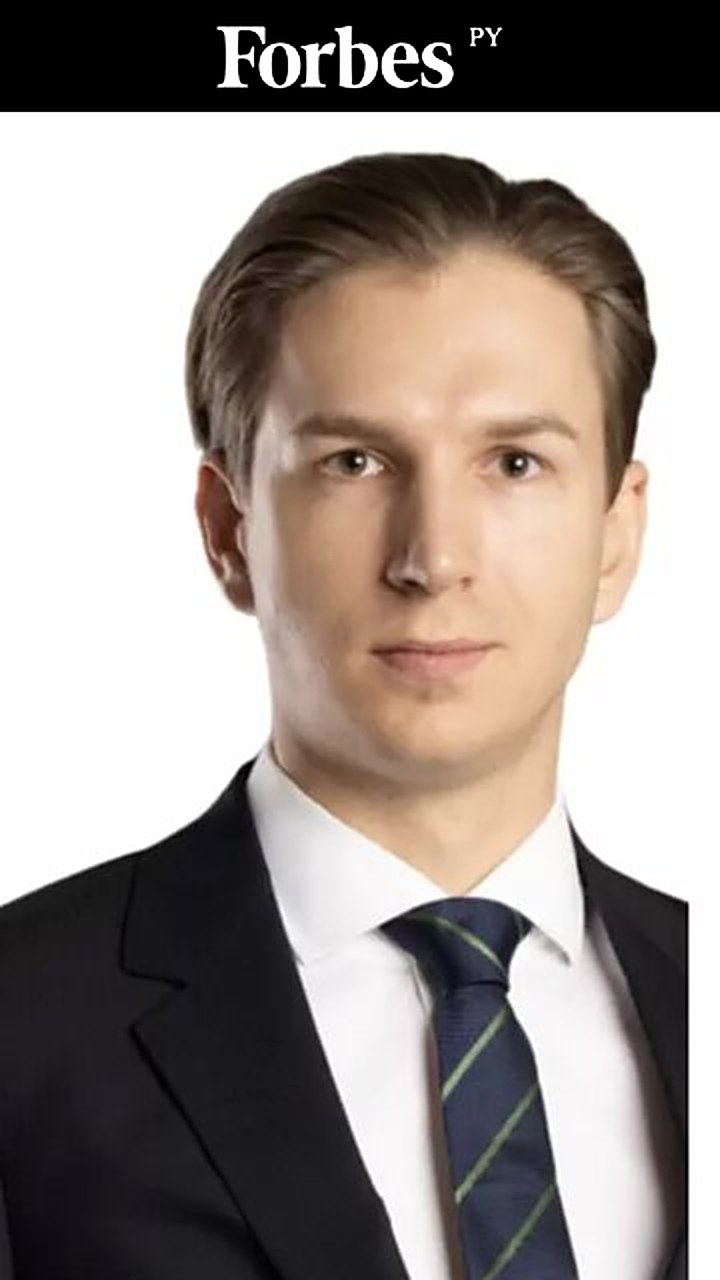
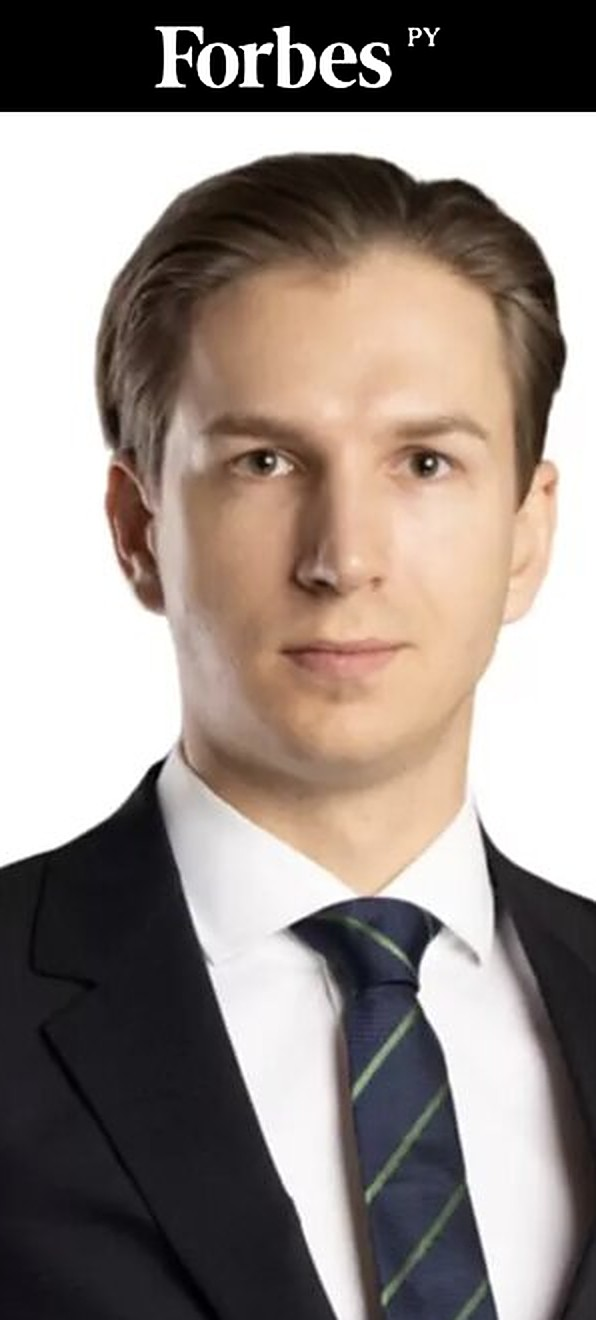
Hero from high-res original, Forbes image with tie, drop Latin and Mandarin

diff --git a/es.html b/es.html
@@ -74,7 +74,7 @@ a{color:inherit}
 .hero{padding:24px 0 56px}
 .hero-grid{display:grid;grid-template-columns:1fr;gap:32px;align-items:center}
 .hero-photo{background:#E8E6EE;border-radius:4px;overflow:hidden;aspect-ratio:4/5;max-height:64vh;max-height:64svh;width:100%;margin:0 auto}
-.hero-photo img{width:100%;height:100%;object-fit:cover;object-position:50% 30%}
+.hero-photo img{width:100%;height:100%;object-fit:cover;object-position:50% 20%}
 .hero h1{font-family:var(--sans);font-size:13px;font-weight:500;letter-spacing:.18em;text-transform:uppercase;color:var(--brass);margin:14px 0 18px}
 .lead{font-family:var(--serif);font-weight:500;font-size:34px;line-height:1.15;color:var(--navy);margin-bottom:22px}
 .lead em{font-style:italic;color:var(--teal)}
@@ -85,12 +85,12 @@ a{color:inherit}
 /* press */
 .press{background:var(--paper)}
 .sec.press{padding-bottom:28px}
-.feat{display:grid;grid-template-columns:1fr;gap:0;border:1px solid var(--line);text-decoration:none;color:inherit;margin-bottom:28px}
+.feat{display:grid;grid-template-columns:38% 1fr;gap:0;border:1px solid var(--line);text-decoration:none;color:inherit;margin-bottom:28px;align-items:stretch}
 .feat-img{background:#f1f1f1}
 .feat-img{background:#fff}
-.feat-img img{width:100%;height:100%;object-fit:cover;object-position:50% 0;aspect-ratio:4/5}
-.feat-txt{padding:28px 24px;display:flex;flex-direction:column;justify-content:center;gap:14px}
-.feat-title{font-family:var(--serif);font-size:27px;line-height:1.22;font-weight:500;color:var(--navy)}
+.feat-img img{width:100%;height:auto;display:block}
+.feat-txt{padding:20px 18px;display:flex;flex-direction:column;justify-content:center;gap:10px}
+.feat-title{font-family:var(--serif);font-size:22px;line-height:1.22;font-weight:500;color:var(--navy)}
 .note{font-size:14px;font-weight:300;color:var(--body)}
 .more-link{font-size:12px;font-weight:500;letter-spacing:.12em;text-transform:uppercase;color:var(--brass);text-decoration:none;display:inline-flex;gap:8px;align-items:center}
 .more-link::after{content:'\2192';transition:transform .2s}
@@ -162,13 +162,11 @@ footer a:hover{color:var(--navy)}
   .lead{font-size:46px}
   .sec{padding:96px 0}
   .sec-h{font-size:36px;margin-bottom:48px}
-  .feat{grid-template-columns:minmax(0,.8fr) minmax(0,1.2fr)}
-  .feat-img{max-height:480px;overflow:hidden}
-  .feat-img img{aspect-ratio:auto;height:480px;object-position:50% 0}
-  .feat-txt{padding:48px 52px}
+  .feat-img img{height:480px;width:auto}
+  .feat-txt{padding:48px 56px;gap:14px}
   .feat-title{font-size:34px}
   .duo{grid-template-columns:minmax(0,.8fr) minmax(0,1.2fr);align-items:start;gap:40px}
-  .feat{grid-template-columns:minmax(0,.7fr) minmax(0,1.3fr)}
+  .feat{grid-template-columns:auto 1fr}
   .cols{grid-template-columns:1fr 1fr;gap:56px}
   .strip{padding-top:20px}
   .sec.press{padding-bottom:44px}
@@ -191,7 +189,7 @@ footer a:hover{color:var(--navy)}
 
 <main>
 <section class="hero"><div class="wrap hero-grid">
-  <figure class="hero-photo"><img src="images/robin-hero.jpg?v=c2" alt="Robin Loths, estudiante de Medicina" width="1160" height="1450" fetchpriority="high"></figure>
+  <figure class="hero-photo"><img src="images/robin-hero.jpg?v=c3" alt="Robin Loths, estudiante de Medicina" width="1200" height="1500" fetchpriority="high"></figure>
   <div>
     <p class="kicker">Medicina &middot; Empresa</p>
     <h1>Robin Loths</h1>
@@ -205,7 +203,7 @@ footer a:hover{color:var(--navy)}
   <h2 class="sec-h">Prensa</h2>
 
   <a class="feat" href="https://www.forbes.com.py/especiales/park-lofts-marca-nuevo-hito-real-estate-local-ambicioso-proyecto-us-10-millones-n75403" target="_blank" rel="noopener">
-    <div class="feat-img"><img src="images/robin-forbes-feature.jpg?v=1" width="720" height="1280" alt="Robin Loths en Forbes Paraguay" loading="lazy"></div>
+    <div class="feat-img"><img src="images/robin-forbes-feature.jpg?v=2" width="596" height="1320" alt="Robin Loths en Forbes Paraguay" loading="lazy"></div>
     <div class="feat-txt">
       <p class="kicker">Forbes Paraguay</p>
       <p class="feat-title">Park Lofts marca nuevo hito en el real estate local</p>
@@ -261,7 +259,7 @@ footer a:hover{color:var(--navy)}
     <div><h3>Medicina</h3><ul class="cl"><li><span><span class="n">Stop the Bleed</span><span class="i">American College of Surgeons</span></span><span class="y">2026</span></li><li><span><span class="n">Tactical Emergency Casualty Care</span><span class="i">Consejo Sudamericano de Medicina T&aacute;ctica</span></span><span class="y">2026</span></li><li><span><span class="n">Introduction to the Biology of Cancer</span><span class="i">Johns Hopkins School of Medicine</span></span><span class="y">2026</span></li><li><span><span class="n">Introducci&oacute;n al quir&oacute;fano</span><span class="i">Universidad An&aacute;huac</span></span><span class="y">2026</span></li><li><span><span class="n">Anatomy of the Upper and Lower Extremities</span><span class="i">Yale University</span></span><span class="y">2026</span></li><li><span><span class="n">Outbreaks and Epidemics</span><span class="i">Johns Hopkins University</span></span><span class="y">2026</span></li><li><span><span class="n">Clinical Trials: Good Clinical Practice</span><span class="i">Novartis</span></span><span class="y">2026</span></li></ul></div>
     <div><h3>Finanzas</h3><ul class="cl"><li><span><span class="n">Diplomado en Derivados Financieros</span><span class="i">Bolsa de Valores de Asunci&oacute;n</span></span><span class="y">2025</span></li><li><span><span class="n">Diplomado en Mercado de Valores</span><span class="i">Bolsa de Valores de Asunci&oacute;n</span></span><span class="y">2023</span></li><li><span><span class="n">Financial Markets</span><span class="i">Yale University</span></span><span class="y">2020</span></li><li><span><span class="n">Bloomberg Market Concepts</span><span class="i">Bloomberg</span></span><span class="y">2020</span></li></ul></div>
   </div>
-  <p class="langs"><strong>Idiomas</strong>Alem&aacute;n, ingl&eacute;s, espa&ntilde;ol y portugu&eacute;s; nociones de lat&iacute;n y mandar&iacute;n.</p>
+  <p class="langs"><strong>Idiomas</strong>Alem&aacute;n, ingl&eacute;s, espa&ntilde;ol y portugu&eacute;s.</p>
 </div></section>
 </main>
 

diff --git a/pt.html b/pt.html
@@ -74,7 +74,7 @@ a{color:inherit}
 .hero{padding:24px 0 56px}
 .hero-grid{display:grid;grid-template-columns:1fr;gap:32px;align-items:center}
 .hero-photo{background:#E8E6EE;border-radius:4px;overflow:hidden;aspect-ratio:4/5;max-height:64vh;max-height:64svh;width:100%;margin:0 auto}
-.hero-photo img{width:100%;height:100%;object-fit:cover;object-position:50% 30%}
+.hero-photo img{width:100%;height:100%;object-fit:cover;object-position:50% 20%}
 .hero h1{font-family:var(--sans);font-size:13px;font-weight:500;letter-spacing:.18em;text-transform:uppercase;color:var(--brass);margin:14px 0 18px}
 .lead{font-family:var(--serif);font-weight:500;font-size:34px;line-height:1.15;color:var(--navy);margin-bottom:22px}
 .lead em{font-style:italic;color:var(--teal)}
@@ -85,12 +85,12 @@ a{color:inherit}
 /* press */
 .press{background:var(--paper)}
 .sec.press{padding-bottom:28px}
-.feat{display:grid;grid-template-columns:1fr;gap:0;border:1px solid var(--line);text-decoration:none;color:inherit;margin-bottom:28px}
+.feat{display:grid;grid-template-columns:38% 1fr;gap:0;border:1px solid var(--line);text-decoration:none;color:inherit;margin-bottom:28px;align-items:stretch}
 .feat-img{background:#f1f1f1}
 .feat-img{background:#fff}
-.feat-img img{width:100%;height:100%;object-fit:cover;object-position:50% 0;aspect-ratio:4/5}
-.feat-txt{padding:28px 24px;display:flex;flex-direction:column;justify-content:center;gap:14px}
-.feat-title{font-family:var(--serif);font-size:27px;line-height:1.22;font-weight:500;color:var(--navy)}
+.feat-img img{width:100%;height:auto;display:block}
+.feat-txt{padding:20px 18px;display:flex;flex-direction:column;justify-content:center;gap:10px}
+.feat-title{font-family:var(--serif);font-size:22px;line-height:1.22;font-weight:500;color:var(--navy)}
 .note{font-size:14px;font-weight:300;color:var(--body)}
 .more-link{font-size:12px;font-weight:500;letter-spacing:.12em;text-transform:uppercase;color:var(--brass);text-decoration:none;display:inline-flex;gap:8px;align-items:center}
 .more-link::after{content:'\2192';transition:transform .2s}
@@ -162,13 +162,11 @@ footer a:hover{color:var(--navy)}
   .lead{font-size:46px}
   .sec{padding:96px 0}
   .sec-h{font-size:36px;margin-bottom:48px}
-  .feat{grid-template-columns:minmax(0,.8fr) minmax(0,1.2fr)}
-  .feat-img{max-height:480px;overflow:hidden}
-  .feat-img img{aspect-ratio:auto;height:480px;object-position:50% 0}
-  .feat-txt{padding:48px 52px}
+  .feat-img img{height:480px;width:auto}
+  .feat-txt{padding:48px 56px;gap:14px}
   .feat-title{font-size:34px}
   .duo{grid-template-columns:minmax(0,.8fr) minmax(0,1.2fr);align-items:start;gap:40px}
-  .feat{grid-template-columns:minmax(0,.7fr) minmax(0,1.3fr)}
+  .feat{grid-template-columns:auto 1fr}
   .cols{grid-template-columns:1fr 1fr;gap:56px}
   .strip{padding-top:20px}
   .sec.press{padding-bottom:44px}
@@ -191,7 +189,7 @@ footer a:hover{color:var(--navy)}
 
 <main>
 <section class="hero"><div class="wrap hero-grid">
-  <figure class="hero-photo"><img src="images/robin-hero.jpg?v=c2" alt="Robin Loths, estudante de Medicina" width="1160" height="1450" fetchpriority="high"></figure>
+  <figure class="hero-photo"><img src="images/robin-hero.jpg?v=c3" alt="Robin Loths, estudante de Medicina" width="1200" height="1500" fetchpriority="high"></figure>
   <div>
     <p class="kicker">Medicina &middot; Empreendedorismo</p>
     <h1>Robin Loths</h1>
@@ -205,7 +203,7 @@ footer a:hover{color:var(--navy)}
   <h2 class="sec-h">Imprensa</h2>
 
   <a class="feat" href="https://www.forbes.com.py/especiales/park-lofts-marca-nuevo-hito-real-estate-local-ambicioso-proyecto-us-10-millones-n75403" target="_blank" rel="noopener">
-    <div class="feat-img"><img src="images/robin-forbes-feature.jpg?v=1" width="720" height="1280" alt="Robin Loths na Forbes Paraguay" loading="lazy"></div>
+    <div class="feat-img"><img src="images/robin-forbes-feature.jpg?v=2" width="596" height="1320" alt="Robin Loths na Forbes Paraguay" loading="lazy"></div>
     <div class="feat-txt">
       <p class="kicker">Forbes Paraguay</p>
       <p class="feat-title">Park Lofts marca nuevo hito en el real estate local</p>
@@ -261,7 +259,7 @@ footer a:hover{color:var(--navy)}
     <div><h3>Medicina</h3><ul class="cl"><li><span><span class="n">Stop the Bleed</span><span class="i">American College of Surgeons</span></span><span class="y">2026</span></li><li><span><span class="n">Tactical Emergency Casualty Care</span><span class="i">Consejo Sudamericano de Medicina T&aacute;ctica</span></span><span class="y">2026</span></li><li><span><span class="n">Introduction to the Biology of Cancer</span><span class="i">Johns Hopkins School of Medicine</span></span><span class="y">2026</span></li><li><span><span class="n">Introducci&oacute;n al quir&oacute;fano</span><span class="i">Universidad An&aacute;huac</span></span><span class="y">2026</span></li><li><span><span class="n">Anatomy of the Upper and Lower Extremities</span><span class="i">Yale University</span></span><span class="y">2026</span></li><li><span><span class="n">Outbreaks and Epidemics</span><span class="i">Johns Hopkins University</span></span><span class="y">2026</span></li><li><span><span class="n">Clinical Trials: Good Clinical Practice</span><span class="i">Novartis</span></span><span class="y">2026</span></li></ul></div>
     <div><h3>Finan&ccedil;as</h3><ul class="cl"><li><span><span class="n">Diplomado en Derivados Financieros</span><span class="i">Bolsa de Valores de Asunci&oacute;n</span></span><span class="y">2025</span></li><li><span><span class="n">Diplomado en Mercado de Valores</span><span class="i">Bolsa de Valores de Asunci&oacute;n</span></span><span class="y">2023</span></li><li><span><span class="n">Financial Markets</span><span class="i">Yale University</span></span><span class="y">2020</span></li><li><span><span class="n">Bloomberg Market Concepts</span><span class="i">Bloomberg</span></span><span class="y">2020</span></li></ul></div>
   </div>
-  <p class="langs"><strong>Idiomas</strong>Alem&atilde;o, ingl&ecirc;s, espanhol e portugu&ecirc;s; no&ccedil;&otilde;es de latim e mandarim.</p>
+  <p class="langs"><strong>Idiomas</strong>Alem&atilde;o, ingl&ecirc;s, espanhol e portugu&ecirc;s.</p>
 </div></section>
 </main>
 

diff --git a/de.html b/de.html
@@ -74,7 +74,7 @@ a{color:inherit}
 .hero{padding:24px 0 56px}
 .hero-grid{display:grid;grid-template-columns:1fr;gap:32px;align-items:center}
 .hero-photo{background:#E8E6EE;border-radius:4px;overflow:hidden;aspect-ratio:4/5;max-height:64vh;max-height:64svh;width:100%;margin:0 auto}
-.hero-photo img{width:100%;height:100%;object-fit:cover;object-position:50% 30%}
+.hero-photo img{width:100%;height:100%;object-fit:cover;object-position:50% 20%}
 .hero h1{font-family:var(--sans);font-size:13px;font-weight:500;letter-spacing:.18em;text-transform:uppercase;color:var(--brass);margin:14px 0 18px}
 .lead{font-family:var(--serif);font-weight:500;font-size:34px;line-height:1.15;color:var(--navy);margin-bottom:22px}
 .lead em{font-style:italic;color:var(--teal)}
@@ -85,12 +85,12 @@ a{color:inherit}
 /* press */
 .press{background:var(--paper)}
 .sec.press{padding-bottom:28px}
-.feat{display:grid;grid-template-columns:1fr;gap:0;border:1px solid var(--line);text-decoration:none;color:inherit;margin-bottom:28px}
+.feat{display:grid;grid-template-columns:38% 1fr;gap:0;border:1px solid var(--line);text-decoration:none;color:inherit;margin-bottom:28px;align-items:stretch}
 .feat-img{background:#f1f1f1}
 .feat-img{background:#fff}
-.feat-img img{width:100%;height:100%;object-fit:cover;object-position:50% 0;aspect-ratio:4/5}
-.feat-txt{padding:28px 24px;display:flex;flex-direction:column;justify-content:center;gap:14px}
-.feat-title{font-family:var(--serif);font-size:27px;line-height:1.22;font-weight:500;color:var(--navy)}
+.feat-img img{width:100%;height:auto;display:block}
+.feat-txt{padding:20px 18px;display:flex;flex-direction:column;justify-content:center;gap:10px}
+.feat-title{font-family:var(--serif);font-size:22px;line-height:1.22;font-weight:500;color:var(--navy)}
 .note{font-size:14px;font-weight:300;color:var(--body)}
 .more-link{font-size:12px;font-weight:500;letter-spacing:.12em;text-transform:uppercase;color:var(--brass);text-decoration:none;display:inline-flex;gap:8px;align-items:center}
 .more-link::after{content:'\2192';transition:transform .2s}
@@ -162,13 +162,11 @@ footer a:hover{color:var(--navy)}
   .lead{font-size:46px}
   .sec{padding:96px 0}
   .sec-h{font-size:36px;margin-bottom:48px}
-  .feat{grid-template-columns:minmax(0,.8fr) minmax(0,1.2fr)}
-  .feat-img{max-height:480px;overflow:hidden}
-  .feat-img img{aspect-ratio:auto;height:480px;object-position:50% 0}
-  .feat-txt{padding:48px 52px}
+  .feat-img img{height:480px;width:auto}
+  .feat-txt{padding:48px 56px;gap:14px}
   .feat-title{font-size:34px}
   .duo{grid-template-columns:minmax(0,.8fr) minmax(0,1.2fr);align-items:start;gap:40px}
-  .feat{grid-template-columns:minmax(0,.7fr) minmax(0,1.3fr)}
+  .feat{grid-template-columns:auto 1fr}
   .cols{grid-template-columns:1fr 1fr;gap:56px}
   .strip{padding-top:20px}
   .sec.press{padding-bottom:44px}
@@ -191,7 +189,7 @@ footer a:hover{color:var(--navy)}
 
 <main>
 <section class="hero"><div class="wrap hero-grid">
-  <figure class="hero-photo"><img src="images/robin-hero.jpg?v=c2" alt="Robin Loths, Medizinstudent" width="1160" height="1450" fetchpriority="high"></figure>
+  <figure class="hero-photo"><img src="images/robin-hero.jpg?v=c3" alt="Robin Loths, Medizinstudent" width="1200" height="1500" fetchpriority="high"></figure>
   <div>
     <p class="kicker">Medizin &middot; Unternehmertum</p>
     <h1>Robin Loths</h1>
@@ -205,7 +203,7 @@ footer a:hover{color:var(--navy)}
   <h2 class="sec-h">Presse</h2>
 
   <a class="feat" href="https://www.forbes.com.py/especiales/park-lofts-marca-nuevo-hito-real-estate-local-ambicioso-proyecto-us-10-millones-n75403" target="_blank" rel="noopener">
-    <div class="feat-img"><img src="images/robin-forbes-feature.jpg?v=1" width="720" height="1280" alt="Robin Loths in Forbes Paraguay" loading="lazy"></div>
+    <div class="feat-img"><img src="images/robin-forbes-feature.jpg?v=2" width="596" height="1320" alt="Robin Loths in Forbes Paraguay" loading="lazy"></div>
     <div class="feat-txt">
       <p class="kicker">Forbes Paraguay</p>
       <p class="feat-title">Park Lofts marca nuevo hito en el real estate local</p>
@@ -261,7 +259,7 @@ footer a:hover{color:var(--navy)}
     <div><h3>Medizin</h3><ul class="cl"><li><span><span class="n">Stop the Bleed</span><span class="i">American College of Surgeons</span></span><span class="y">2026</span></li><li><span><span class="n">Tactical Emergency Casualty Care</span><span class="i">Consejo Sudamericano de Medicina T&aacute;ctica</span></span><span class="y">2026</span></li><li><span><span class="n">Introduction to the Biology of Cancer</span><span class="i">Johns Hopkins School of Medicine</span></span><span class="y">2026</span></li><li><span><span class="n">Introducci&oacute;n al quir&oacute;fano</span><span class="i">Universidad An&aacute;huac</span></span><span class="y">2026</span></li><li><span><span class="n">Anatomy of the Upper and Lower Extremities</span><span class="i">Yale University</span></span><span class="y">2026</span></li><li><span><span class="n">Outbreaks and Epidemics</span><span class="i">Johns Hopkins University</span></span><span class="y">2026</span></li><li><span><span class="n">Clinical Trials: Good Clinical Practice</span><span class="i">Novartis</span></span><span class="y">2026</span></li></ul></div>
     <div><h3>Finanzen</h3><ul class="cl"><li><span><span class="n">Diplomado en Derivados Financieros</span><span class="i">Bolsa de Valores de Asunci&oacute;n</span></span><span class="y">2025</span></li><li><span><span class="n">Diplomado en Mercado de Valores</span><span class="i">Bolsa de Valores de Asunci&oacute;n</span></span><span class="y">2023</span></li><li><span><span class="n">Financial Markets</span><span class="i">Yale University</span></span><span class="y">2020</span></li><li><span><span class="n">Bloomberg Market Concepts</span><span class="i">Bloomberg</span></span><span class="y">2020</span></li></ul></div>
   </div>
-  <p class="langs"><strong>Sprachen</strong>Deutsch, Englisch, Spanisch und Portugiesisch; Grundkenntnisse in Latein und Mandarin.</p>
+  <p class="langs"><strong>Sprachen</strong>Deutsch, Englisch, Spanisch und Portugiesisch.</p>
 </div></section>
 </main>
 

diff --git a/index.html b/index.html
@@ -74,7 +74,7 @@ a{color:inherit}
 .hero{padding:24px 0 56px}
 .hero-grid{display:grid;grid-template-columns:1fr;gap:32px;align-items:center}
 .hero-photo{background:#E8E6EE;border-radius:4px;overflow:hidden;aspect-ratio:4/5;max-height:64vh;max-height:64svh;width:100%;margin:0 auto}
-.hero-photo img{width:100%;height:100%;object-fit:cover;object-position:50% 30%}
+.hero-photo img{width:100%;height:100%;object-fit:cover;object-position:50% 20%}
 .hero h1{font-family:var(--sans);font-size:13px;font-weight:500;letter-spacing:.18em;text-transform:uppercase;color:var(--brass);margin:14px 0 18px}
 .lead{font-family:var(--serif);font-weight:500;font-size:34px;line-height:1.15;color:var(--navy);margin-bottom:22px}
 .lead em{font-style:italic;color:var(--teal)}
@@ -85,12 +85,12 @@ a{color:inherit}
 /* press */
 .press{background:var(--paper)}
 .sec.press{padding-bottom:28px}
-.feat{display:grid;grid-template-columns:1fr;gap:0;border:1px solid var(--line);text-decoration:none;color:inherit;margin-bottom:28px}
+.feat{display:grid;grid-template-columns:38% 1fr;gap:0;border:1px solid var(--line);text-decoration:none;color:inherit;margin-bottom:28px;align-items:stretch}
 .feat-img{background:#f1f1f1}
 .feat-img{background:#fff}
-.feat-img img{width:100%;height:100%;object-fit:cover;object-position:50% 0;aspect-ratio:4/5}
-.feat-txt{padding:28px 24px;display:flex;flex-direction:column;justify-content:center;gap:14px}
-.feat-title{font-family:var(--serif);font-size:27px;line-height:1.22;font-weight:500;color:var(--navy)}
+.feat-img img{width:100%;height:auto;display:block}
+.feat-txt{padding:20px 18px;display:flex;flex-direction:column;justify-content:center;gap:10px}
+.feat-title{font-family:var(--serif);font-size:22px;line-height:1.22;font-weight:500;color:var(--navy)}
 .note{font-size:14px;font-weight:300;color:var(--body)}
 .more-link{font-size:12px;font-weight:500;letter-spacing:.12em;text-transform:uppercase;color:var(--brass);text-decoration:none;display:inline-flex;gap:8px;align-items:center}
 .more-link::after{content:'\2192';transition:transform .2s}
@@ -162,13 +162,11 @@ footer a:hover{color:var(--navy)}
   .lead{font-size:46px}
   .sec{padding:96px 0}
   .sec-h{font-size:36px;margin-bottom:48px}
-  .feat{grid-template-columns:minmax(0,.8fr) minmax(0,1.2fr)}
-  .feat-img{max-height:480px;overflow:hidden}
-  .feat-img img{aspect-ratio:auto;height:480px;object-position:50% 0}
-  .feat-txt{padding:48px 52px}
+  .feat-img img{height:480px;width:auto}
+  .feat-txt{padding:48px 56px;gap:14px}
   .feat-title{font-size:34px}
   .duo{grid-template-columns:minmax(0,.8fr) minmax(0,1.2fr);align-items:start;gap:40px}
-  .feat{grid-template-columns:minmax(0,.7fr) minmax(0,1.3fr)}
+  .feat{grid-template-columns:auto 1fr}
   .cols{grid-template-columns:1fr 1fr;gap:56px}
   .strip{padding-top:20px}
   .sec.press{padding-bottom:44px}
@@ -191,7 +189,7 @@ footer a:hover{color:var(--navy)}
 
 <main>
 <section class="hero"><div class="wrap hero-grid">
-  <figure class="hero-photo"><img src="images/robin-hero.jpg?v=c2" alt="Robin Loths, medical student" width="1160" height="1450" fetchpriority="high"></figure>
+  <figure class="hero-photo"><img src="images/robin-hero.jpg?v=c3" alt="Robin Loths, medical student" width="1200" height="1500" fetchpriority="high"></figure>
   <div>
     <p class="kicker">Medicine &middot; Enterprise</p>
     <h1>Robin Loths</h1>
@@ -205,7 +203,7 @@ footer a:hover{color:var(--navy)}
   <h2 class="sec-h">Press</h2>
 
   <a class="feat" href="https://www.forbes.com.py/especiales/park-lofts-marca-nuevo-hito-real-estate-local-ambicioso-proyecto-us-10-millones-n75403" target="_blank" rel="noopener">
-    <div class="feat-img"><img src="images/robin-forbes-feature.jpg?v=1" width="720" height="1280" alt="Robin Loths in Forbes Paraguay" loading="lazy"></div>
+    <div class="feat-img"><img src="images/robin-forbes-feature.jpg?v=2" width="596" height="1320" alt="Robin Loths in Forbes Paraguay" loading="lazy"></div>
     <div class="feat-txt">
       <p class="kicker">Forbes Paraguay</p>
       <p class="feat-title">Park Lofts marca nuevo hito en el real estate local</p>
@@ -261,7 +259,7 @@ footer a:hover{color:var(--navy)}
     <div><h3>Medicine</h3><ul class="cl"><li><span><span class="n">Stop the Bleed</span><span class="i">American College of Surgeons</span></span><span class="y">2026</span></li><li><span><span class="n">Tactical Emergency Casualty Care</span><span class="i">Consejo Sudamericano de Medicina T&aacute;ctica</span></span><span class="y">2026</span></li><li><span><span class="n">Introduction to the Biology of Cancer</span><span class="i">Johns Hopkins School of Medicine</span></span><span class="y">2026</span></li><li><span><span class="n">Introducci&oacute;n al quir&oacute;fano</span><span class="i">Universidad An&aacute;huac</span></span><span class="y">2026</span></li><li><span><span class="n">Anatomy of the Upper and Lower Extremities</span><span class="i">Yale University</span></span><span class="y">2026</span></li><li><span><span class="n">Outbreaks and Epidemics</span><span class="i">Johns Hopkins University</span></span><span class="y">2026</span></li><li><span><span class="n">Clinical Trials: Good Clinical Practice</span><span class="i">Novartis</span></span><span class="y">2026</span></li></ul></div>
     <div><h3>Finance</h3><ul class="cl"><li><span><span class="n">Diplomado en Derivados Financieros</span><span class="i">Bolsa de Valores de Asunci&oacute;n</span></span><span class="y">2025</span></li><li><span><span class="n">Diplomado en Mercado de Valores</span><span class="i">Bolsa de Valores de Asunci&oacute;n</span></span><span class="y">2023</span></li><li><span><span class="n">Financial Markets</span><span class="i">Yale University</span></span><span class="y">2020</span></li><li><span><span class="n">Bloomberg Market Concepts</span><span class="i">Bloomberg</span></span><span class="y">2020</span></li></ul></div>
   </div>
-  <p class="langs"><strong>Languages</strong>German, English, Spanish and Portuguese, with an elementary command of Latin and Mandarin.</p>
+  <p class="langs"><strong>Languages</strong>German, English, Spanish and Portuguese.</p>
 </div></section>
 </main>
 
